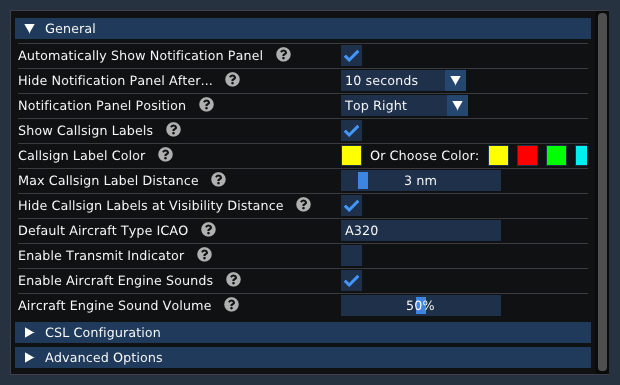
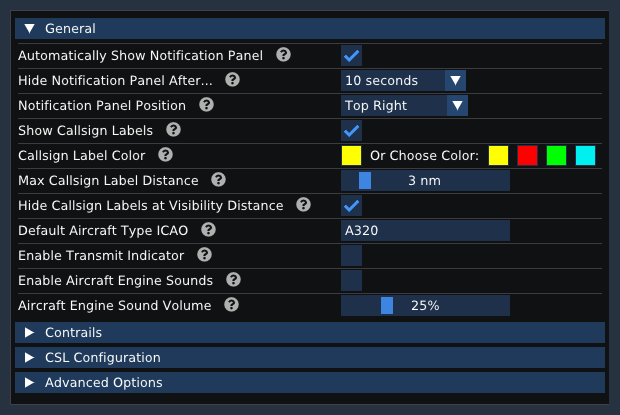
Add contrail settings

Changed region(s): [[0.0, 0.0312, 0.9806, 0.9662]]

diff --git a/docs/xplane.md b/docs/xplane.md
@@ -8,7 +8,7 @@ The xPilot plugins settings can be accessed through the X-Plane menu: `Plugins >
 
 All xPilot Plugin settings are saved to a file named `Config.json` in the `X-Plane/Resources/plugins/xPilot/Resources` folder.
 
-![X-Plane Settings](media/XplaneSettings.png ':size=385')
+![X-Plane Settings](media/XplaneSettings.png ':size=415')
 
 * **Automatically Show Notification Panel**<br/>If this option is enabled, if a new radio text message is received, it will display in a small translucent panel at the top right of the X-Plane window.
 
@@ -32,13 +32,25 @@ All xPilot Plugin settings are saved to a file named `Config.json` in the `X-Pla
 
 * **Aircraft Engine Sound Volume**<br/>This slider changes the engine sound volume of other aircraft.
 
+![X-Plane Settings](media/XplaneSettingsContrails.png ':size=415')
+
+* **Enable Contrails**<br/>Enable this option to enable contrails on jet aircraft.
+
+* **Minimum Altitude**<br/>The minimum altitude at which contrails are visible for jet aircraft.
+
+* **Maximum Altitude**<br/>The maximum altitude at which contrails are visible for jet aircraft.
+
+* **Life Time**<br/>How long (in seconds) does a contrail "puff" survive?
+
+* **Multiple Contrails**<br/>Enable on contrail per aircraft engine (more realistic, but may affect frame rate).
+
 ## CSL Configuration
 
 xPilot has no complex or special model matching rule sets that need to be installed or configured. You must have at least one CSL model set package installed before you can use xPilot. The most popular model set is Bluebell CSL. When you first install xPilot, you will be prompted to install a CSL model set. See the [CSL Installation](installation?id=csl-installation) for details on how to install the CSL model set.
 
 In the xPilot Plugin settings (accessed via `Plugins > xPilot > Settings`), there is a section to define the path(s) to where your CSL model sets are installed. You can define up to seven different paths.
 
-![CSL Configuration](media/XplaneCSLConfiguration.png ':size=385')
+![CSL Configuration](media/XplaneCSLConfiguration.png ':size=415')
 
 To define a new path, click the <span class="xplane-btn">Browse</span> button and browse to the root folder of your CS models, or manually type in the full path. If there are multiple subfolders, xPilot will search the folders for additional models.
 
@@ -54,7 +66,7 @@ If you see this error, make sure you have a CSL model package installed (such as
 
 ## Advanced Options
 
-![Advanced Options](media/XplaneAdvancedSettings.png ':size=385')
+![Advanced Options](media/XplaneAdvancedSettings.png ':size=415')
 
 * **Override "Contact ATC" Command**<br/>If this option is enabled, xPilot will ignore the "Contact ATC" X-Plane command. This is generally only useful for users who also fly on PilotEdge.
 
